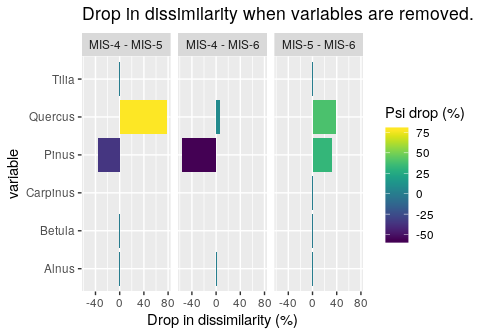
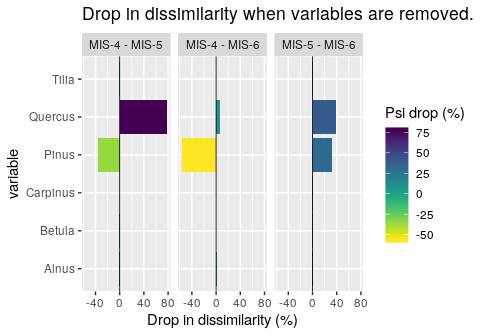
updated a figure in readme.rmd

diff --git a/README.md b/README.md
@@ -14572,8 +14572,9 @@ psi.drop.df.long$name <- paste(psi.drop.df.long$A, psi.drop.df.long$B, sep=" - "
 ggplot(data=psi.drop.df.long, aes(x=variable, y=psi, fill=psi)) + 
   geom_bar(stat = "identity") + 
   coord_flip() + 
+  geom_hline(yintercept = 0, size = 0.3) + 
   facet_wrap("name") +
-  scale_fill_viridis() +
+  scale_fill_viridis(direction = -1) +
   ggtitle("Drop in dissimilarity when variables are removed.") +
   ylab("Drop in dissimilarity (%)") +
   labs(fill = "Psi drop (%)")
